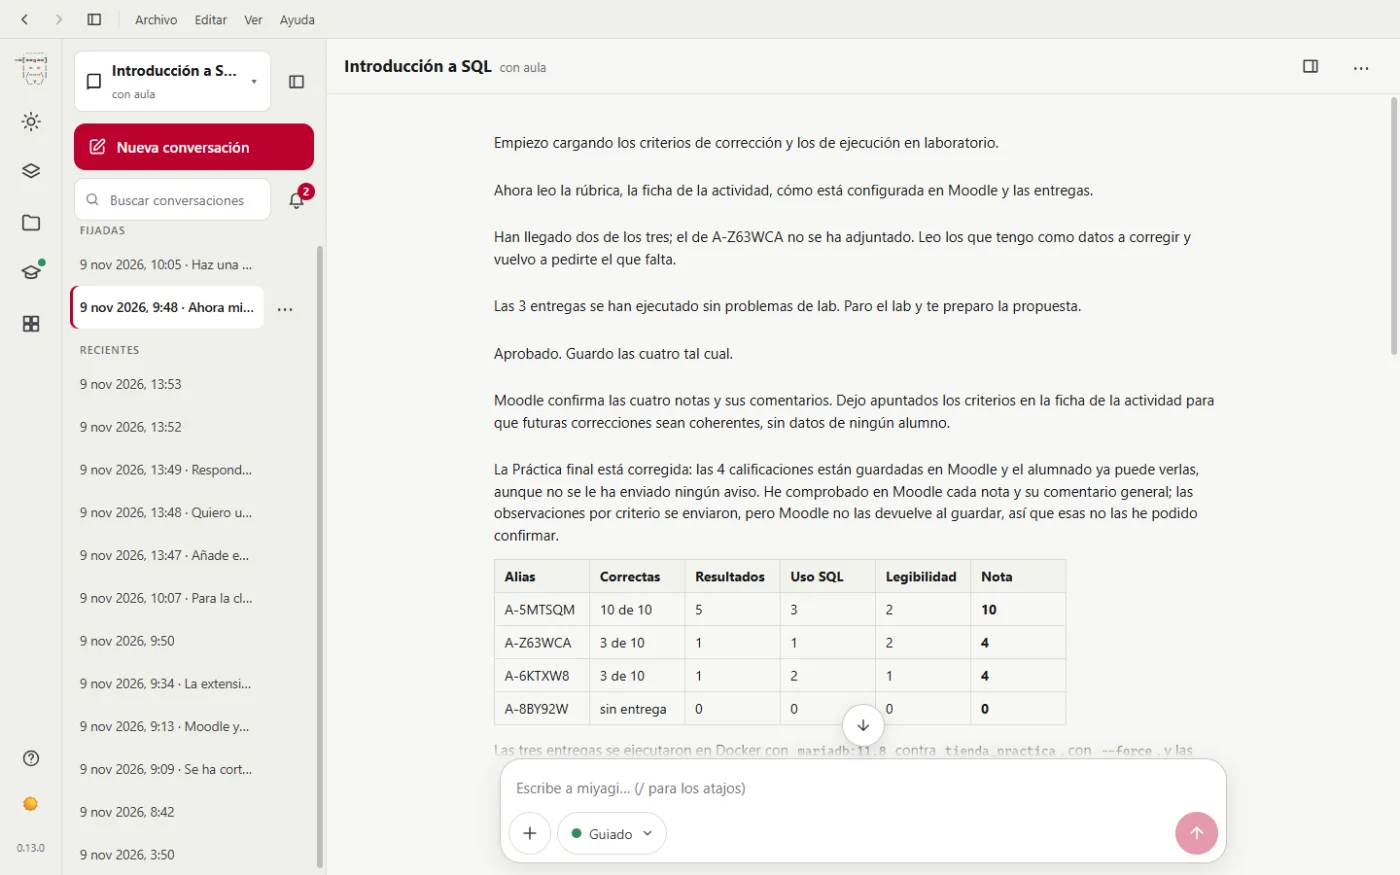
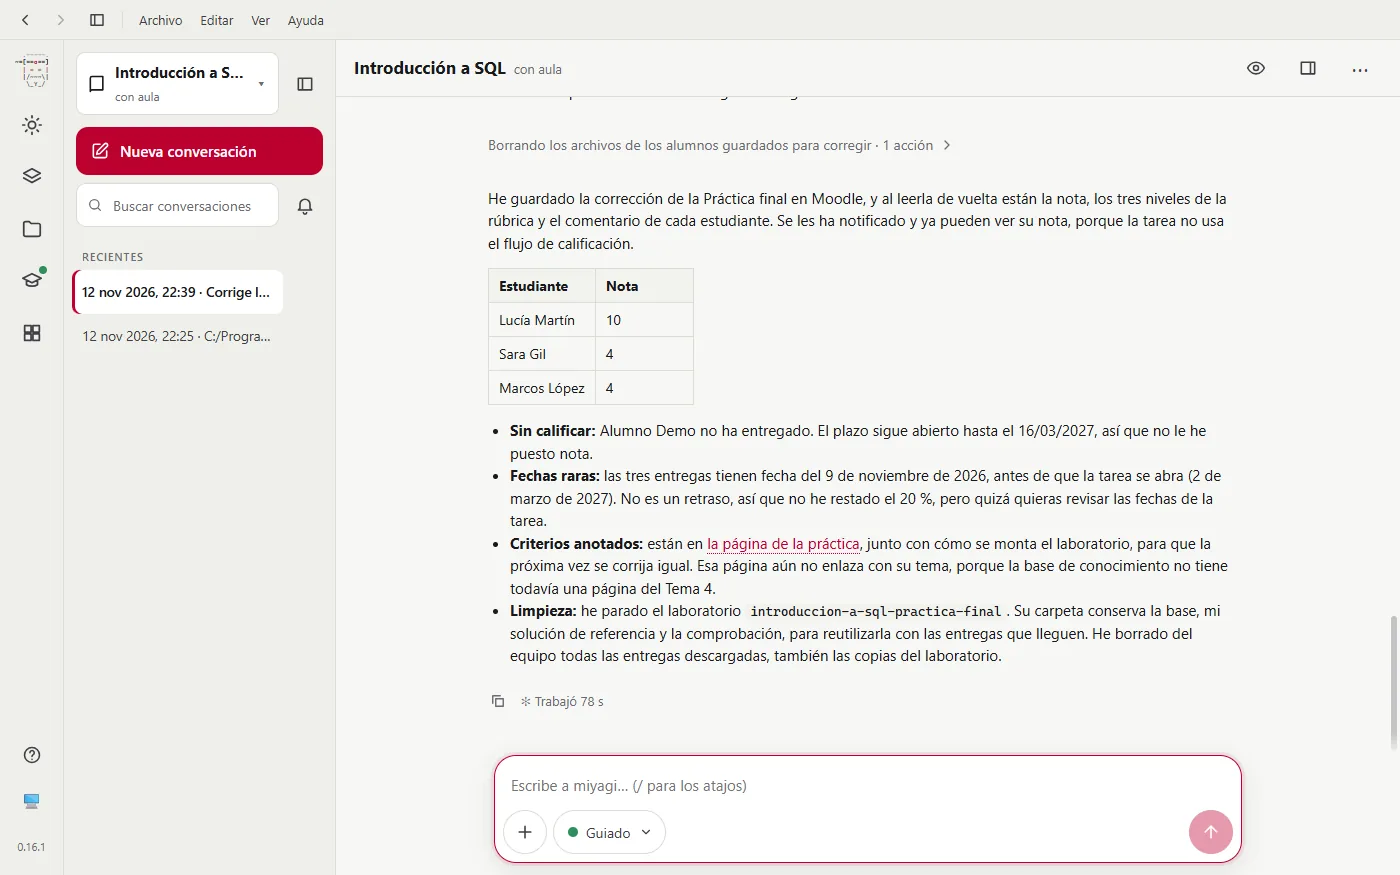
docs(site): el paso 7 y la guía del chat, con los nombres que ahora enseña la app
Desde #109 la app muestra a cada alumno por su nombre y le pasa al modelo el
alias de quien el docente nombra: el paso 7 del tutorial ya no tiene que
explicar cómo casar alias y alumnos, y su captura de esa pregunta sobra.
Capturas rehechas en la app de escritorio con el aula de SQL del sandbox
(curso 353): la aprobación de un comentario con «Sara Gil (A-WS3G1P)», la de
la corrección con nombre y alias, y el resumen con nombres. El texto cuenta
lo que hizo esta corrección: Alumno Demo sin nota porque el plazo del sandbox
sigue abierto, y los alumnos notificados.

diff --git a/docs/i18n/en/docusaurus-plugin-content-docs/current/casos-de-uso/corregir.md b/docs/i18n/en/docusaurus-plugin-content-docs/current/casos-de-uso/corregir.md
@@ -6,7 +6,7 @@ description: miyagi grades the final project applying the teacher's rubric, with
 
 # 7. Grading with the rubric {#7-corregir-con-la-rúbrica}
 
-Three test students have submitted the final project, each at a different level: Lucía all 10 queries correct; Marcos, only some; Sara, all 10 with conceptual mistakes. Alumno Demo hasn't submitted, and the deadline has passed.
+Three test students have submitted the final project, each at a different level: Lucía all 10 queries correct; Marcos, only some; Sara, all 10 with conceptual mistakes. Alumno Demo hasn't submitted.
 
 In a new conversation, with the grading shortcut:
 
@@ -30,32 +30,30 @@ With your permission, it reads them in `submissions`, copies those it has to run
 
 <Shot width="1400" height="875" kind="desktop" src="/img/v2/tutorial-07-entregas-borradas.webp" alt="The end of a grading summary: what failed in each submission, a pending decision about the student who didn't submit and the line saying the lab was stopped and the copies of the submissions deleted.">At the end of the summary, the lab stopped and the copies deleted.</Shot>
 
-What doesn't change is that **you see your students by name and miyagi by alias**. If you talk to it about a student by name, it doesn't know which is their alias. It asks you, showing you what grades each alias has, and your eyes in Moodle are what bridge the gap.
-
-<Shot width="1400" height="875" kind="desktop" src="/img/v2/tutorial-07-alias-que-alumno.webp" alt="miyagi asks which alias is Sara Gil's, with four aliases and their current grade as options.">miyagi asks which alias belongs to the student we named. You can see it in Moodle by comparing the submission times.</Shot>
+What you see isn't what the model sees. **In the app and the web version you see each student by name**: miyagi puts it on screen where the model has their alias, without the name leaving your computer. And if you talk about a student by their full name (say, “what is Sara Gil missing?”), the model gets their alias. To project in class, the eye button at the top right goes back to the aliases. The terminal always shows the aliases.
 
 ## Each grade, before saving it {#cada-nota-antes-de-guardarla}
 
-With the results, it applies the rubric and shows you the four grades in a single approval, with each student's breakdown by criterion and their comment.
+With the results, it applies the rubric and shows you the grades in a single approval, with each student's breakdown by criterion and their comment.
 
-<Shot width="1400" height="875" kind="desktop" src="/img/v2/tutorial-07-aprobacion-nota.webp" alt="Approval panel for saving the grading of A-Z63WCA: correct results 1 out of 5, use of SQL 1 out of 3, readability 2 out of 2, and the comment to the student with each query that fails.">The detail of a grade before saving it. This screenshot is of an example request that we then rejected.</Shot>
+<Shot width="1400" height="875" kind="desktop" src="/img/v2/tutorial-07-aprobacion-nota.webp" alt="Approval panel for the grading: Sara Gil (A-WS3G1P) 4/10 and Marcos López (A-N1XSAP) 4/10, with the rubric levels, the observations and each one's comment.">The detail of each grade before saving it, with each student's name next to their alias.</Shot>
 
-The grade is clear for each alias, and it's what you'll later see in Moodle with their name:
+Each student's grade, the same you'll later see in Moodle:
 
 - **Lucía, 10.** All 10 queries correct.
 - **Marcos, 4.** He's missing queries (it counts them as not submitted) and the ones he has fail on order and style.
 - **Sara, 4.** Very well presented, but with conceptual mistakes: an aggregate in the `WHERE` (error 1111), an `INNER JOIN` where a `LEFT JOIN` was needed and a count without `GROUP BY`.
-- **Alumno Demo, 0**, with the comment "No submission has been received", because the deadline has passed.
+- **Alumno Demo, no grade.** They haven't submitted, but the deadline is still open, so it doesn't give them a 0 yet.
 
-When it finishes, miyagi sums up what it has done. It warns that it hasn't sent notifications and that the late penalty is yours to apply. And it's honest about what it hasn't been able to confirm: that Moodle doesn't give it back the remarks per criterion when saving.
+When it finishes, miyagi sums up what it has done. It says it has read each grade back from Moodle, that the students already see it because the assignment doesn't use the marking workflow, and that it has stopped the lab and deleted the submissions. It also points out what looks odd, such as submission dates before the assignment opened, instead of deciding it for you.
 
-<Shot width="1400" height="875" kind="desktop" src="/img/v2/tutorial-07-correccion-resumen.webp" alt="The grading summary: a table with alias, correct queries, points per criterion and grade: A-5MTSQM 10, A-Z63WCA 4, A-6KTXW8 4, A-8BY92W 0.">The table of grades, by alias.</Shot>
+<Shot width="1400" height="875" kind="desktop" src="/img/v2/tutorial-07-correccion-resumen.webp" alt="The summary of the saved grading: Lucía Martín 10, Sara Gil 4 and Marcos López 4; Alumno Demo ungraded because the deadline is still open, the lab stopped and the submissions deleted.">The table of grades, with each student's name.</Shot>
 
 ## What each one sees {#lo-que-ve-cada-uno}
 
 The teacher sees the grades in Moodle with their names:
 
-<Shot width="1400" height="1386" kind="moodle" src="/img/v2/moodle-profesor-entregas.webp" alt="The table of submissions for the Práctica final in Moodle: Lucía 10, Marcos 4, Sara 4 and Alumno Demo 0, with their files and their comments.">The submissions and their grades. The submission times are the only thing that lets you match each alias to each student.</Shot>
+<Shot width="1400" height="1386" kind="moodle" src="/img/v2/moodle-profesor-entregas.webp" alt="The table of submissions for the Práctica final in Moodle: Lucía 10, Marcos 4, Sara 4 and Alumno Demo 0, with their files and their comments.">The submissions and their grades. Alumno Demo's 0 is from an earlier grading, with the deadline already passed.</Shot>
 
 <Shot width="1400" height="875" kind="moodle" src="/img/v2/moodle-profesor-corrector.webp" alt="Moodle's grader with Sara Gil's submission, her rubric and the review panel collapsed.">The grader, with the rubric applied.</Shot>
 

diff --git a/docs/content/casos-de-uso/corregir.md b/docs/content/casos-de-uso/corregir.md
@@ -6,7 +6,7 @@ description: miyagi corrige la práctica final aplicando la rúbrica del profeso
 
 # 7. Corregir con la rúbrica
 
-Tres alumnos de prueba han entregado la práctica final, cada uno con un nivel distinto: Lucía las 10 consultas correctas; Marcos, solo algunas; Sara, las 10 con errores de concepto. Alumno Demo no ha entregado, y el plazo ha vencido.
+Tres alumnos de prueba han entregado la práctica final, cada uno con un nivel distinto: Lucía las 10 consultas correctas; Marcos, solo algunas; Sara, las 10 con errores de concepto. Alumno Demo no ha entregado.
 
 En una conversación nueva, con el atajo de corregir:
 
@@ -30,32 +30,30 @@ Con tu permiso, las lee en `submissions`, copia al laboratorio las que tiene que
 
 <Shot width="1400" height="875" kind="desktop" src="/img/v2/tutorial-07-entregas-borradas.webp" alt="El final del resumen de una corrección: qué falló en cada entrega, una decisión pendiente sobre el alumno que no entregó y la línea He parado el laboratorio y he borrado las copias de las entregas.">Al final del resumen, el laboratorio parado y las copias borradas.</Shot>
 
-Lo que no cambia es que **tú ves a tus alumnos por su nombre y miyagi por su alias**. Si le hablas de un alumno por su nombre, no sabe cuál es su alias. Te lo pregunta enseñándote qué notas tiene cada alias, y son tus ojos en Moodle los que hacen de puente.
-
-<Shot width="1400" height="875" kind="desktop" src="/img/v2/tutorial-07-alias-que-alumno.webp" alt="miyagi pregunta qué alias es el de Sara Gil, con cuatro alias y su nota actual como opciones.">miyagi pregunta qué alias es el de la alumna que le nombramos. Se ve en Moodle comparando las horas de entrega.</Shot>
+Lo que tú ves no es lo que ve el modelo. **En la app y en la versión web ves a cada alumno por su nombre**: miyagi lo pone en la pantalla donde el modelo tiene su alias, sin que el nombre salga de tu ordenador. Y si le hablas de un alumno por su nombre completo (por ejemplo «¿qué le falta a Sara Gil?»), al modelo le llega su alias. Para proyectar en clase, el botón del ojo de arriba a la derecha vuelve a los alias. En la terminal se ven siempre los alias.
 
 ## Cada nota, antes de guardarla
 
-Con los resultados, aplica la rúbrica y te enseña las cuatro notas en una sola aprobación, con el desglose por criterio de cada alumno y su comentario.
+Con los resultados, aplica la rúbrica y te enseña las notas en una sola aprobación, con el desglose por criterio de cada alumno y su comentario.
 
-<Shot width="1400" height="875" kind="desktop" src="/img/v2/tutorial-07-aprobacion-nota.webp" alt="Panel de aprobación para guardar la corrección de A-Z63WCA: resultados correctos 1 de 5, uso de SQL 1 de 3, legibilidad 2 de 2, y el comentario al alumno con cada consulta que falla.">El detalle de una nota antes de guardarla. Esta captura es de una petición de ejemplo que luego rechazamos.</Shot>
+<Shot width="1400" height="875" kind="desktop" src="/img/v2/tutorial-07-aprobacion-nota.webp" alt="Panel de aprobación de la corrección: Sara Gil (A-WS3G1P) 4/10 y Marcos López (A-N1XSAP) 4/10, con los niveles de la rúbrica, las observaciones y el comentario de cada uno.">El detalle de cada nota antes de guardarla, con el nombre de cada alumno junto a su alias.</Shot>
 
-La nota queda clara para cada alias, y es lo que luego verás en Moodle con su nombre:
+La nota de cada alumno, la misma que verás luego en Moodle:
 
 - **Lucía, 10.** Las 10 consultas correctas.
 - **Marcos, 4.** Le faltan consultas (las cuenta como no entregadas) y las que tiene fallan en orden y en estilo.
 - **Sara, 4.** Muy bien presentado, pero con errores de concepto: un agregado en el `WHERE` (error 1111), un `INNER JOIN` donde hacía falta `LEFT JOIN` y un recuento sin `GROUP BY`.
-- **Alumno Demo, 0**, con el comentario «No se ha recibido ninguna entrega», porque el plazo ha vencido.
+- **Alumno Demo, sin nota.** No ha entregado, pero el plazo sigue abierto, así que no le pone un 0 todavía.
 
-Al terminar, miyagi resume lo que ha hecho. Avisa de que no ha enviado notificaciones y de que el descuento por retraso lo aplicas tú. Y es honesto con lo que no ha podido confirmar: que Moodle no le devuelve las observaciones por criterio al guardar.
+Al terminar, miyagi resume lo que ha hecho. Dice que ha leído de vuelta cada nota en Moodle, que los alumnos ya la ven porque la tarea no usa el flujo de calificación, y que ha parado el laboratorio y borrado las entregas. También avisa de lo que le parece raro, como unas fechas de entrega anteriores a la apertura de la tarea, en vez de decidirlo por ti.
 
-<Shot width="1400" height="875" kind="desktop" src="/img/v2/tutorial-07-correccion-resumen.webp" alt="El resumen de la corrección: una tabla con alias, consultas correctas, puntos por criterio y nota: A-5MTSQM 10, A-Z63WCA 4, A-6KTXW8 4, A-8BY92W 0.">La tabla de notas, por alias.</Shot>
+<Shot width="1400" height="875" kind="desktop" src="/img/v2/tutorial-07-correccion-resumen.webp" alt="El resumen de la corrección guardada: Lucía Martín 10, Sara Gil 4 y Marcos López 4; Alumno Demo sin calificar porque el plazo sigue abierto, el laboratorio parado y las entregas borradas.">La tabla de notas, con el nombre de cada alumno.</Shot>
 
 ## Lo que ve cada uno
 
 El profesor ve en Moodle las notas con sus nombres:
 
-<Shot width="1400" height="1386" kind="moodle" src="/img/v2/moodle-profesor-entregas.webp" alt="La tabla de entregas de la Práctica final en Moodle: Lucía 10, Marcos 4, Sara 4 y Alumno Demo 0, con sus archivos y sus comentarios.">Las entregas y sus notas. Las horas de entrega son lo único que permite casar cada alias con cada alumno.</Shot>
+<Shot width="1400" height="1386" kind="moodle" src="/img/v2/moodle-profesor-entregas.webp" alt="La tabla de entregas de la Práctica final en Moodle: Lucía 10, Marcos 4, Sara 4 y Alumno Demo 0, con sus archivos y sus comentarios.">Las entregas y sus notas. El 0 de Alumno Demo es de una corrección anterior, con el plazo ya vencido.</Shot>
 
 <Shot width="1400" height="875" kind="moodle" src="/img/v2/moodle-profesor-corrector.webp" alt="El corrector de Moodle con la entrega de Sara Gil, su rúbrica y el panel de revisión plegado.">El corrector, con la rúbrica aplicada.</Shot>
 

diff --git a/docs/content/guia/chat.md b/docs/content/guia/chat.md
@@ -28,7 +28,7 @@ Bajo cada cosa que hace en Moodle tienes **Ver en el aula**, que abre esa misma 
 
 Antes de guardar una nota, responder en el foro, publicar contenido o cambiar la configuración de una actividad, la aprobación ocupa el sitio del cuadro para escribir, con un resumen de lo que va a publicar y tres botones: **Aprobar**, **Rechazar** y **Parar todo**.
 
-<Shot width="1400" height="875" kind="desktop" src="/img/v2/desktop-aprobacion-nota.webp" alt="El panel de aprobación para guardar una nota: la rúbrica y el comentario para el alias A-Z63WCA, con los botones Parar todo, Rechazar y Aprobar.">La aprobación de una nota: el resumen dice exactamente qué se va a guardar.</Shot>
+<Shot width="1400" height="875" kind="desktop" src="/img/v2/desktop-aprobacion-nota.webp" alt="El panel de aprobación para cambiar el comentario de Sara Gil (A-WS3G1P) en la Práctica final: la nota que no cambia y el comentario nuevo, literal, con los botones Parar todo, Rechazar y Aprobar.">La aprobación de un comentario: el resumen dice exactamente qué se va a guardar, y a quién, con su nombre y su alias.</Shot>
 
 - **Aprobar**: lo publica.
 - **Rechazar**: no lo publica. Explícale por qué en tu siguiente mensaje; lo tiene en cuenta, por ejemplo, para el resto de notas de la misma tarea.

diff --git a/docs/i18n/en/docusaurus-plugin-content-docs/current/guia/chat.md b/docs/i18n/en/docusaurus-plugin-content-docs/current/guia/chat.md
@@ -28,7 +28,7 @@ Under each thing it does in Moodle there's **View in the classroom**, which open
 
 Before saving a grade, replying in the forum, publishing content or changing an activity's settings, the approval takes the place of the writing box, with a summary of what it's going to publish and three buttons: **Approve**, **Reject** and **Stop all**.
 
-<Shot width="1400" height="875" kind="desktop" src="/img/v2/desktop-aprobacion-nota.webp" alt="The approval panel for saving a grade: the rubric and the comment for the alias A-Z63WCA, with the Stop all, Reject and Approve buttons.">Approving a grade: the summary says exactly what's going to be saved.</Shot>
+<Shot width="1400" height="875" kind="desktop" src="/img/v2/desktop-aprobacion-nota.webp" alt="The approval panel to change Sara Gil's (A-WS3G1P) comment on the Práctica final: the grade that doesn't change and the new comment, word for word, with the buttons Stop all, Reject and Approve.">The approval of a comment: the summary says exactly what will be saved, and for whom, with their name and their alias.</Shot>
 
 - **Approve**: it publishes it.
 - **Reject**: it doesn't publish it. Explain why in your next message; it takes it into account, for example, for the rest of the grades for the same assignment.
